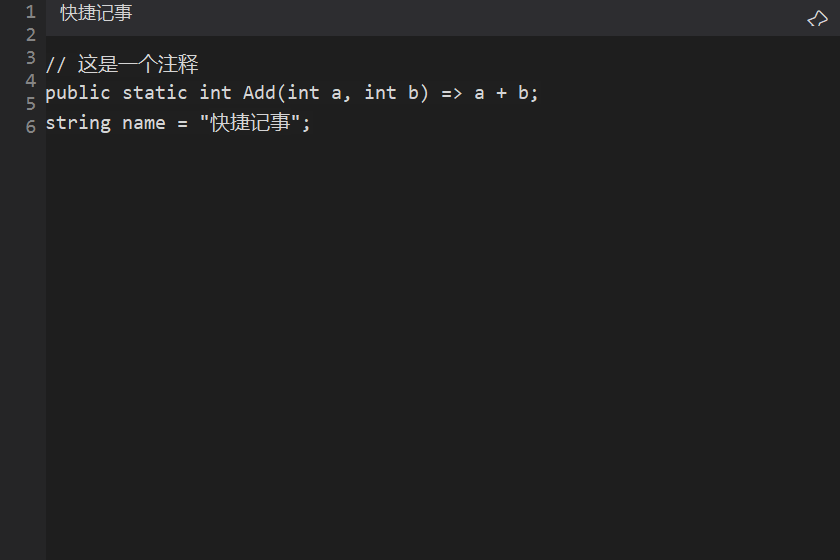
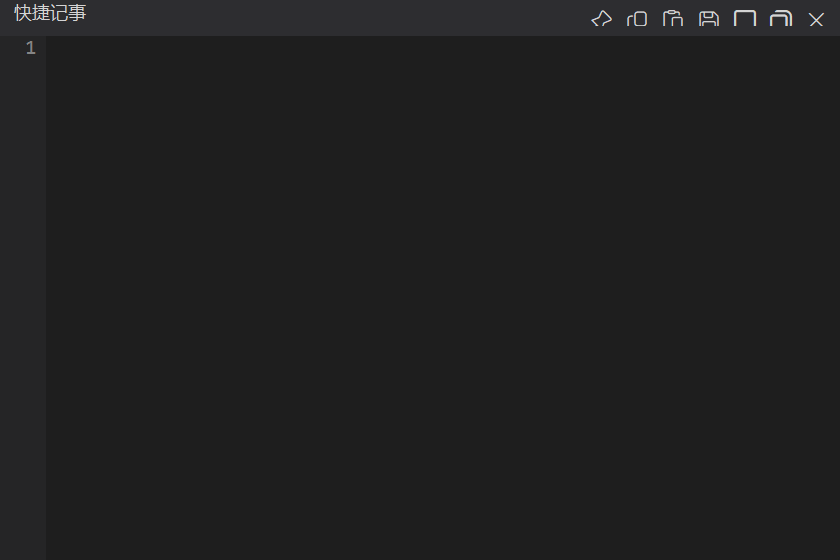
修复记事本按钮栏塌缩、Dock 顺序、空内容行号，切换不再弹通知

Changed region(s): [[0.0, 0.0, 0.65, 0.2429], [0.7119, 0.0, 0.9905, 0.0607]]

diff --git a/src/QuickActions/Notepad/NotepadWindow.cs b/src/QuickActions/Notepad/NotepadWindow.cs
@@ -80,8 +80,8 @@ public sealed class NotepadWindow : Form
         var buttonBar = new FlowLayoutPanel
         {
             Dock = DockStyle.Right,
-            AutoSize = true,
-            AutoSizeMode = AutoSizeMode.GrowAndShrink,
+            AutoSize = false,          // AutoSize+Dock 会塌缩成零宽，按钮不可见，必须固定宽度
+            Width = 7 * 36 + 4,        // 7 个按钮（34+2 边距）+ 右边距
             Padding = new Padding(0, 4, 4, 4),
             BackColor = _barBg,
         };
@@ -97,7 +97,6 @@ public sealed class NotepadWindow : Form
         bar.MouseDown += OnBarMouseDown;
         bar.DoubleClick += (_, _) =>
             WindowState = WindowState == FormWindowState.Maximized ? FormWindowState.Normal : FormWindowState.Maximized;
-        Controls.Add(bar);
 
         // 编辑器 + 行号
         _editor = new RichTextBox
@@ -132,14 +131,17 @@ public sealed class NotepadWindow : Form
         _editor.Resize += (_, _) => _gutter.Invalidate();
         _editor.MouseWheel += OnEditorMouseWheel;
 
-        Controls.Add(_gutter);
-        Controls.Add(_editor);
-
         _highlightTimer.Tick += (_, _) =>
         {
             _highlightTimer.Stop();
             ApplyHighlight();
         };
+
+        // Dock 布局按 z-order 逆序处理：最后添加的（Top 栏）最先占位。
+        // 正确顺序：Fill 最先 add（最底层）、Left 次之、Top 最后 add（最顶层，最先占位）
+        Controls.Add(_editor);   // Fill，最后填充剩余区域
+        Controls.Add(_gutter);   // Left
+        Controls.Add(bar);       // Top，最先占位
 
         KeyPreview = true;
         KeyDown += OnFormKeyDown;
@@ -455,8 +457,18 @@ public sealed class NotepadWindow : Form
             g.SmoothingMode = SmoothingMode.AntiAlias;
             using (var bg = new SolidBrush(BackColor))
                 g.FillRectangle(bg, ClientRectangle);
-            if (_target.IsDisposed || _target.TextLength == 0)
+            if (_target.IsDisposed)
                 return;
+
+            if (_target.TextLength == 0)
+            {
+                // 空内容也显示第 1 行行号
+                using var emptyBrush = new SolidBrush(NumberColor);
+                using var emptyFormat = new StringFormat { Alignment = StringAlignment.Far };
+                g.DrawString("1", _target.Font, emptyBrush,
+                    new RectangleF(0, 0, Width - 6, _target.Font.Height), emptyFormat);
+                return;
+            }
 
             int firstLine = _target.GetLineFromCharIndex(_target.GetCharIndexFromPosition(new Point(2, 2)));
             int firstCharIdx = _target.GetFirstCharIndexFromLine(firstLine);

diff --git a/src/QuickActions/Notepad/NotepadHost.cs b/src/QuickActions/Notepad/NotepadHost.cs
@@ -19,18 +19,18 @@ public sealed class NotepadHost : IDisposable
         {
             _window = new NotepadWindow(_dataDir);
             _window.ShowWindow();
-            return new ActionResult(true, "已打开记事本");
+            return new ActionResult(true, "已打开记事本", Notify: false);
         }
 
         if (_window.Visible)
         {
             _window.CopyToClipboard();
             _window.HideWindow();
-            return new ActionResult(true, "已复制内容并隐藏记事本");
+            return new ActionResult(true, "已复制内容并隐藏记事本", Notify: false);
         }
 
         _window.ShowWindow();
-        return new ActionResult(true, "已显示记事本");
+        return new ActionResult(true, "已显示记事本", Notify: false);
     }
 
     /// <summary>托盘菜单入口：直接显示（不复制不隐藏）。</summary>

diff --git a/src/QuickActions/Core/IAction.cs b/src/QuickActions/Core/IAction.cs
@@ -2,9 +2,9 @@ namespace QuickActions.Core;
 
 /// <summary>
 /// 动作执行结果。<see cref="Changed"/> 为 false 表示请求的目标状态与当前一致，没有实际变化——
-/// 宿主只记录日志、不弹通知。
+/// 宿主只记录日志、不弹通知。<see cref="Notify"/> 为 false 表示有变化但不弹通知（如记事本切换）。
 /// </summary>
-public readonly record struct ActionResult(bool Changed, string Message);
+public readonly record struct ActionResult(bool Changed, string Message, bool Notify = true);
 
 /// <summary>
 /// 一键动作接口。新动作：实现此接口并在 Program 启动时注册到 <see cref="ActionRegistry"/>。

diff --git a/src/QuickActions/App.cs b/src/QuickActions/App.cs
@@ -328,7 +328,8 @@ public sealed class App : IDisposable
             if (result.Changed)
             {
                 _log.Info($"[{action.Name}] {result.Message}");
-                _tray.ShowBalloon("QuickActions", result.Message);
+                if (result.Notify)
+                    _tray.ShowBalloon("QuickActions", result.Message);
             }
             else
             {

diff --git a/CHANGELOG.md b/CHANGELOG.md
@@ -8,8 +8,11 @@
 - 快捷记事：自写记事本（热键 F13 切换显示/隐藏、隐藏时复制内容到剪贴板、行号、代码高亮、置顶、Ctrl+S 保存、Ctrl+滚轮缩放、位置记忆、明暗适配）
 - 恢复配置：删除运行时配置与注册表设置并恢复默认（带确认对话框）
 
-### 变更
-- 热键重排：F13 记事本、F14 亮暗、F15 投影；记事本菜单项置于首位
+### 修复
+- 记事本按钮栏塌缩不可见（FlowLayoutPanel AutoSize+Dock 冲突，改固定宽度）
+- 记事本 Dock 顺序错误导致行号盖住标题栏（重排 Fill/Left/Top）
+- 空内容时不显示行号（空内容也显示第 1 行）
+- 记事本切换不再弹出通知（ActionResult 增加 Notify 静默选项）
 
 ## [v0.1.1] - 2026-08-15
 
